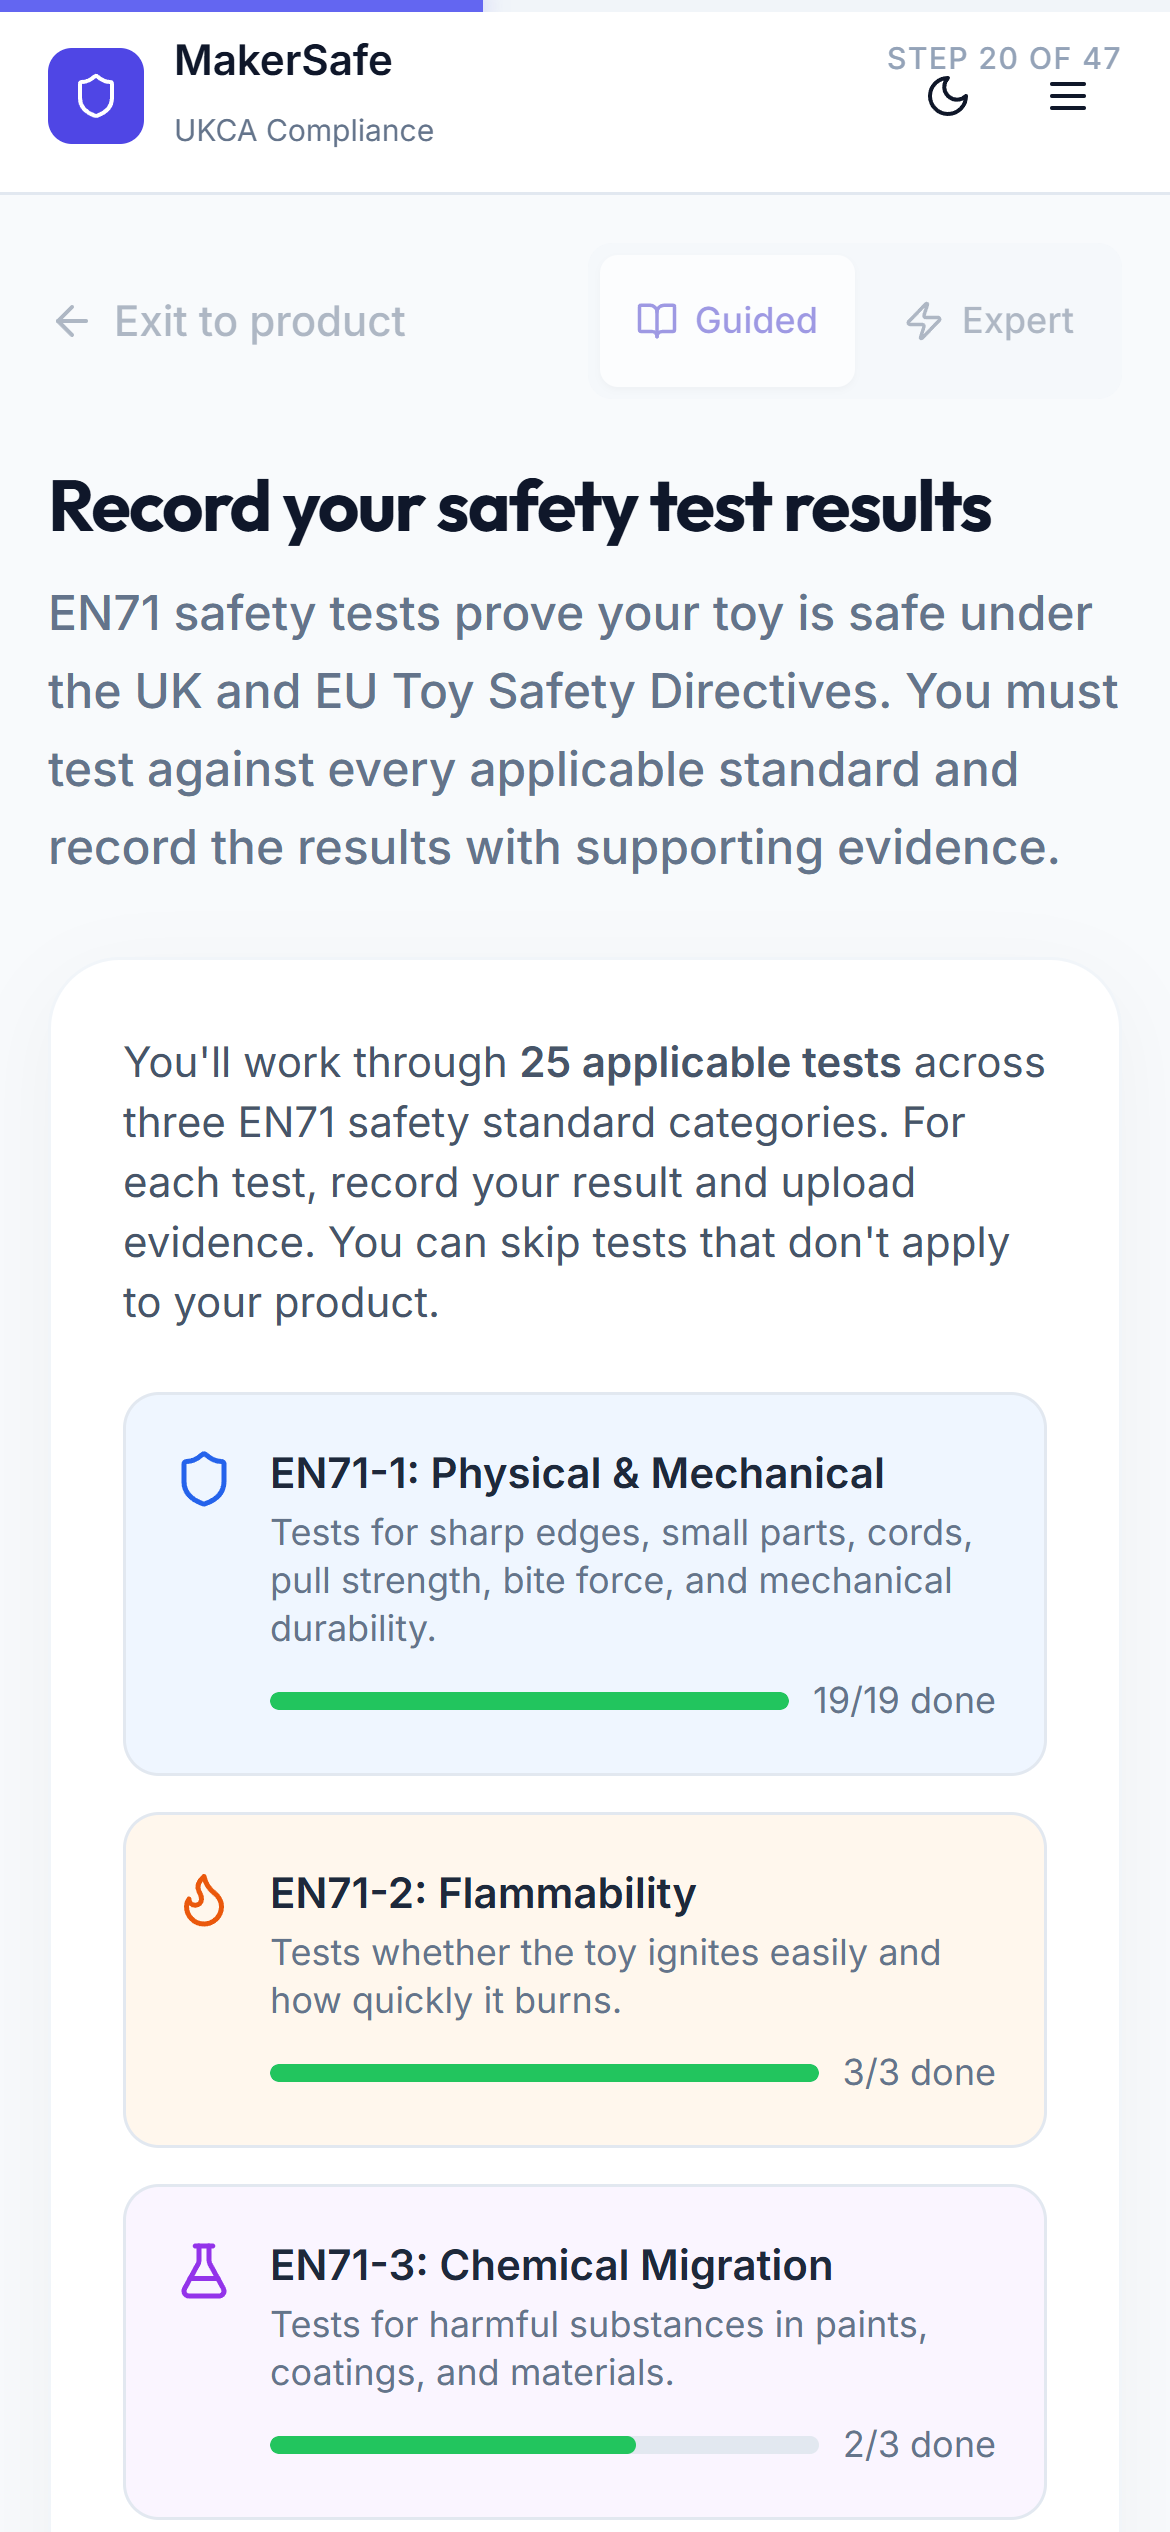
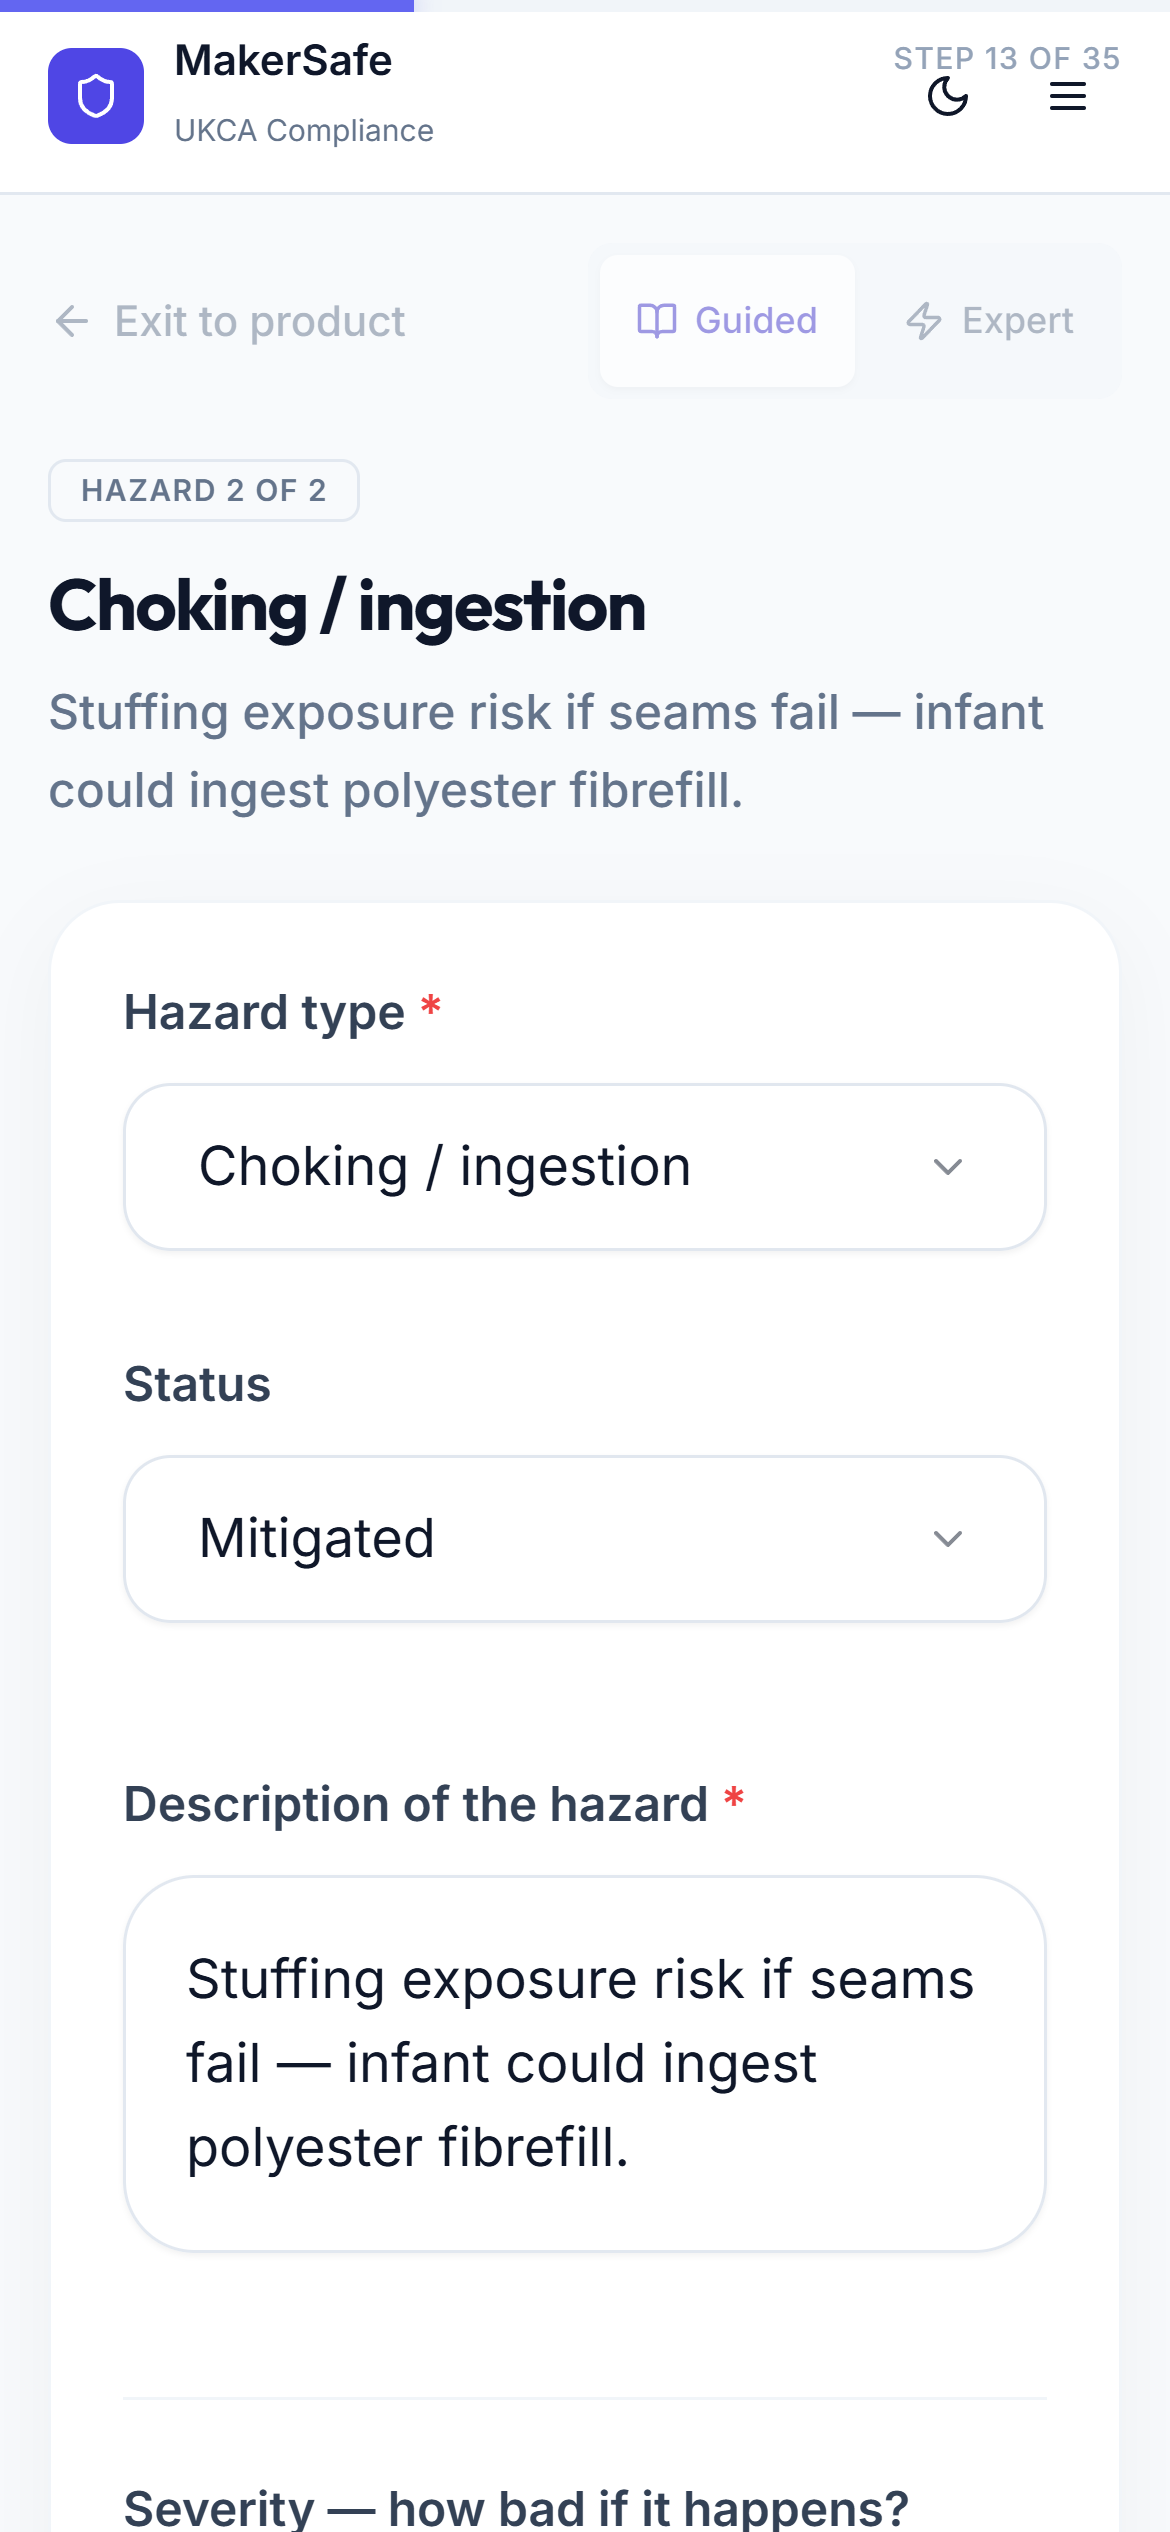
Update screenshots for wizard

diff --git a/index.html b/index.html
@@ -833,7 +833,7 @@
       </div>
       <picture>
         <source media="(max-width: 820px)" srcset="demo_screenshots/s4_wizard_mobile.png">
-        <img class="screenshot" src="demo_screenshots/s4_wizard_new.png" alt="Guided wizard showing a safety test step with equipment list and instructions" loading="lazy">
+        <img class="screenshot" src="demo_screenshots/s4_wizard_new.png" alt="Guided wizard showing a risk assessment step: Choking/ingestion hazard with severity, likelihood and calculated risk score" loading="lazy">
       </picture>
     </div>
 